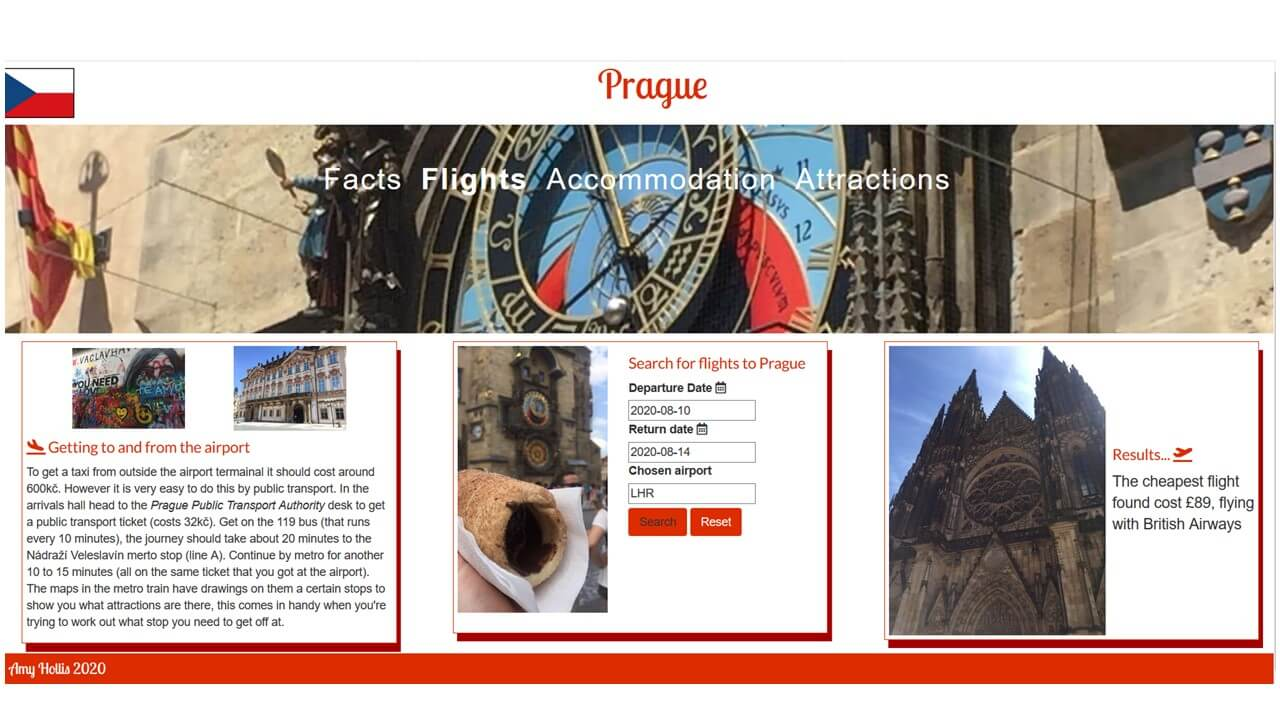
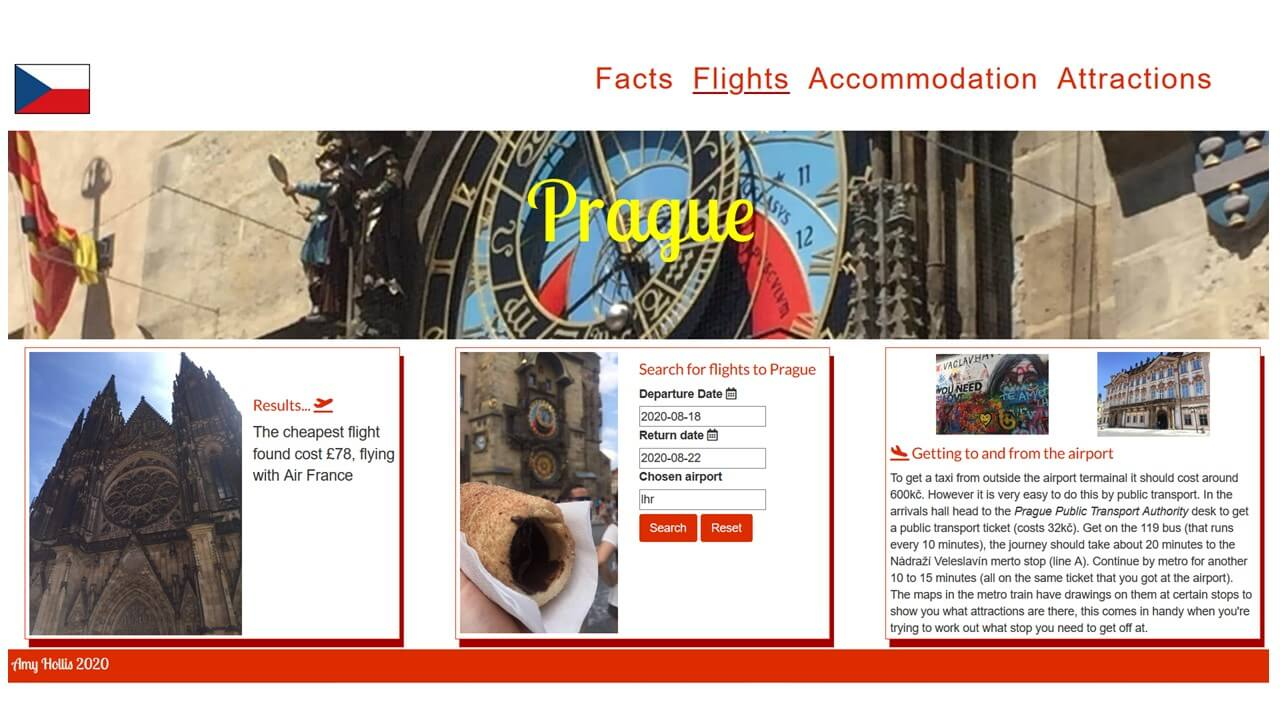
update screenshots and readme file to refelect changes to the menu/title placement

diff --git a/README.md b/README.md
@@ -19,32 +19,33 @@ This website follows the user’s thought process, they are first faced with a f
 -	As a user looking to visit Prague, I would like to be able to see the cheapest flight from a chosen UK airport
 -	As someone looking to stay in Prague, I would like to see the top few recommended Hotels and pricing for my chosen dates
 -	As a first-time visitor to Prague I would like to be able to see where the main attractions 	are.
-When designing this website, I used Balsamiq to create wireframes. This meant that that the development process was more streamlined as I knew what elements I wanted to add to the pages. I kept the header, footer and hero image (with the navigation menu in it) the same across the pages to help add continuity to the site, making it more intuitive and encourage the user to explore the site. These have all changed based on feedback given during the development process. In these original plans I was going to present the data in tables. However, these have changed to cards (created using Bootstrap), this made it easier for users to digest the bite sized bits of information and allowed for better UX as the cards could move and adapt to smaller screen sizes.  In addition, it allowed me to add more photos to the website, showing users what there is to see in Prague and add interest and colour to the pages. 
 
-On my landing page I was going to focus on average weather temperatures and general facts about the country. The original plan was to use an API to get the weather information, but as the averages were unlikely to change  and finding an appropriate API was difficult, I decided to add a currency converter, rather than hard coding in the exchange rate (which will change). 
+When designing this website, I used Balsamiq to create wireframes. This meant that that the development process was more streamlined as I knew what elements I wanted to add to the pages. I kept the header, footer and hero image the same across the pages to help add continuity to the site, making it more intuitive and encourage the user to explore the site. These have all changed based on feedback given during the development process. In these original plans I was going to present the data in tables. However, these have changed to cards (created using Bootstrap), this made it easier for users to digest the bite sized bits of information and allowed for better UX as the cards could move and adapt to smaller screen sizes.  In addition, it allowed me to add more photos to the website, showing users what there is to see in Prague and add interest and colour to the pages. 
+
+On my landing page I was going to focus on average weather temperatures and general facts about the country. The original plan was to use an API to get the weather information, but as the averages were unlikely to change  and finding an appropriate API was difficult, I decided to add a currency converter, rather than hard coding in the exchange rate (which will change). In addition I swapped the title and menu over, this was to help conform to user expectation, but also made navigation easier on smaller devices.
 
 ![wireframe for index page](assets/images/index.png)
 
-The second page that the users see is the flights page. Not only did swapping to cards, from the table improve the overall look of the website, but it also gave me more room to add additional information to the page to help users know how to get from the airport to the city centre. This was due to using the rule of thirds, thus giving me an extra section of the page to add this information. 
+The second page that the users see is the flights page. To help with consistancy I swapped the navigation and the title over to make it easier for users to navigate the site. Not only did swapping to cards, from the table improve the overall look of the website, but it also gave me more room to add additional information to the page to help users know how to get from the airport to the city centre. This was due to using the rule of thirds, thus giving me an extra section of the page to add this information. 
 
 ![wireframe for flights page](assets/images/flights.png)
 
-With the exception of swapping from the table layout to cards, the accommodation page did not change too much in terms of no extra information or APIs added to this page, this is because there was not any beneficial information that I could have added in a third section of the page. Because of this, I decided to ignore the rule of thirds for this page as adding the third section would add meaningless text and give the users an information overload, most of which would not be relevant or useful. 
+With the exception of swapping from the table layout to cards and swapping the menu and title the accommodation page did not change too much in terms of no extra information or APIs added to this page. This is because there was not any beneficial information that I could have added in a third section of the page. Because of this, I decided to ignore the rule of thirds for this page as adding the third section would add meaningless text and give the users an information overload, most of which would not be relevant or useful. 
 
 ![wireframe for hotels page](assets/images/hotels.png)
 
-The original plan for the sights page was to use TripAdvisor to show peoples’ recommendations, however it was difficult to source an API for this (as each attraction would have a unique code to TripAdvisor that it would use to search) and it didn’t fit with the user stories as it would not show where each of these sights were in relation to each other. As I have been to Prague, I knew what sights are recommended and that they are grouped into two main areas either side of the river. So, I swapped to Google maps (as there is very good documentation with the API) and this allowed me to show users where the attractions are on a map by using clusters that become markers the more the user zooms in.  
+The original plan for the sights page was to use TripAdvisor to show peoples’ recommendations, however it was difficult to source an API for this (as each attraction would have a unique code to TripAdvisor that it would use to search) and it didn’t fit with the user stories as it would not show where each of these sights were in relation to each other. As I have been to Prague, I knew what sights are recommended and that they are grouped into two main areas either side of the river. So, I swapped to Google maps (as there is very good documentation with the API) and this allowed me to show users where the attractions are on a map by using clusters that become markers the more the user zooms in. Again, for consistancy and better UX I swapped the navigation to the header and moved the title down to the hero image.   
 
 ![wireframe for sights page](assets/images/sights.png)
 
 ## Features
 ### Facts
-On the facts page of my website users are drawn to the hero image of the Astronomical clock, on this is a nav bar which used internal hyperlinks to take users to the relevant pages. I used the Bootstrap grid to accomplish the lay out of the cards used on my pages. For this to be effective across different viewports, I had to make use of the display property in CSS to show and hide pictures in order to prevent the images being too small on the smaller viewports. In addition, on a tablet size screen I added a card that is only visible on that screen size and hide two of the cards so that all the weather information is together and readable of all screen sizes. This page contains the simplest of the APIs used. This allows users to enter an amount (in GBP as it is aimed at users from the UK) and it will tell them how many Korunas are in the given number of pounds.
+In the header of each page this is a nav bar which uses internal hyperlinks to take users to the relevant pages. I used the Bootstrap grid to accomplish the layout of the cards used on my pages. For this to be effective across different viewports, on a tablet size screen I added a card that is only visible on that screen size and hide two of the cards so that all the weather information is together and readable of all screen sizes. This page contains the simplest of the APIs used. This allows users to enter an amount (in GBP as it is aimed at users from the UK) and it will tell them how many Korunas are in the given number of pounds.
 
 ![screenshot of facts page](assets/images/indexDeployed.jpg)
 
 ### Flights
-This page uses the rule of thirds in the information section of the page (under the hero image). Again, for the best UX across different screen sizes I have made use of the display properties in CSS to hide images so that you can see them more clearly. The first of these three cards just contains hard coded information in it. The middle card contains a form. The values entered in this form are fed into the URL for the API call and allows users to pick dates and outbound airport. The results from the API call and some set text then fill the last card to display the results to the user. 
+This page uses the rule of thirds in the information section of the page (under the hero image). For the best UX across different screen sizes I have made use of the display properties in CSS to hide images so that you can see them more clearly. One of these three cards just contains hard coded information in it. The middle card contains a form. The values entered in this form are fed into the URL for the API call and allows users to pick dates and outbound airport. The results from the API call and some set text then fill the first card to display the results to the user once they have closed the instructions for the date picker. 
 
 ![screenshot of flights page](assets/images/flightsDeployed.jpg)
 
@@ -60,11 +61,11 @@ This Page uses the Google maps API, with the marker clusters. I chose the cluste
 ![screenshot of sights page](assets/images/sightsDeployed.jpg)
 
 ### Existing Features
--	This website uses internal hyperlinks, both in the menu and the flag in the top left hand corner of the page(following convention as this is what users expect and improves UX) has an a tag in it that brings users back to index.html. 
+-	This website uses internal hyperlinks, both in the menu and the flag in the top left hand corner of the page (following convention as this is what users expect and improves UX) which has an a tag in it that brings users back to index.html. 
 -	The website is responsive to the viewport being used to display it. This effects how the pages are rendered. In the case of this website it then means that you see more/ different pictures depending on the screen size. The biggest change caused by this is to the facts page. I wanted to keep the two cards with the weather information together, but on a tablet size screen this wasn’t happening so I created an new card that put it into one larger card that takes the width of the screen so that the data is kept together, making it easier for users to read and interpret. 
--	I have used three forms on this website to help complete URLs for the API calls. In order to make these forms easy for users to complete labels were used alongside the “for” attribute. However, when this was rendered onto the webpage it was wrapping input boxes (of different types are used including text, number and date) so the br tag was used to ensure that this didn’t happen and it was obvious what input field was intended for what data. In addition, I used buttons with different types, submit and reset to help users restart and finish the form. 
+-	I have used three forms on this website to help complete URLs for the API calls. In order to make these forms easy for users to complete labels were used alongside the “for” attribute. However, when this was rendered onto the webpage it was wrapping input boxes (of different types are used including text and number) so the br tag was used to ensure that this didn’t happen and it was obvious what input field was intended for what data. In addition, I used buttons with different types, submit and reset to help users restart and finish the forms. 
 -	The main features of this website are the use of APIs. Apart from the Google maps API, they are all called through a generic function. This meant that to make an API call all that was needed was the URL and the headers to be passed through. I used jQuery to help simplify the JavaScript and mainly used the dollar sign and curly braces (${}) and template literals to help populate the URL with the relevant data from the forms. In addition, the currency converter, flights and hotel APIs are all on a click function, so the API call is not made until the user clicks the button. Not only does this restrict the number of API calls made but is also prevents any error messages as the call is not being made before the data is added to the field. Again, to prevent error messages the fields in the form have the “required” attribute so the call cannot be made without all the data to be fed into the URL. 
--	In order to add a bit more interactivity to the website pseudo classes were used. This is found in the menu in the hero image, it underlines and increases the size of the menu option being hovered over. Not only does it add this element of interactivity, but it also helps users see what option they are selecting.
+-	In order to add a bit more interactivity to the website pseudo classes were used. This is found in the menu, it underlines the option being hovered over. Not only does it add this element of interactivity, but it also helps users see what option they are selecting.
 ### Features left to implement 
 -	On the Google maps API I would like to add images on a “:hover” pseudo class so that when the user hovers over an attraction, an image of the attraction is displayed so that the users can get a better sense of what the city has to offer. 
 ## Technologies Used
@@ -77,15 +78,15 @@ To create this website I used HTML, CSS and JavaScript. I used a few different p
 -	I embellished the site using icons from [Fontawsome](https://fontawesome.com/). I was able to use them to decorate my pages, adding interest to the pages.
 -	I used Roboto and Lobster Two from [Google Fonts](https://fonts.google.com/) to style my project. I used one for the headings and one for the text. By only using two fonts I have added continuity to my pages.
 -	I used [Material Design](https://material.io/resources/color/#!/?view.left=0&view.right=0&primary.color=BF360C&secondary.color=1DE9B6) to help pick my colour scheme and find the hex codes for the colours that I used. Not only did it help me find the hex code for the main colour that I wanted, but it also gave the hex codes for a shade darker and lighter so that I could vary the website, while still having that consistency.
--	In order to create the best UX possible I did not want users to have to wait a long time for the browser to load large image files, so I used [Tiny PNG](https://tinypng.com/) to compress my images so browsers only had to deal with smaller file sizes, therefore load faster.
+-	In order to create the best UX possible I did not want users to have to wait a long time for the browser to load large image files, so I used [Tiny PNG](https://tinypng.com/) to compress my images so the file sizes are smaller and therefore load faster.
 -	Once I had finished coding I used this [HTML Formatter](https://webformatter.com/html) to ensure that my code was properly laid out and easier to read, this site also formats CSS and JavaScript. 
 -	I used the W3C validators to help test my code. I used the [HTML validator](https://validator.w3.org/) and the [CSS validator](https://jigsaw.w3.org/css-validator/) to ensure that both coding languages were correct.
 -	The date picker used in  the forms was created with the use of the JavaScript and CSS files from [Pikaday](https://github.com/Pikaday/Pikaday)
 ## Testing 
 
-During the development of the project I constantly looked to the problems section on GitPod to help develop the JavaScript and ensure there were no errors. I then started by testing the usability of the website, I started by testing that the internal links to the various web pages all worked and took me to the correct page. I then checked that all the API calls returned responses as expected, I then ran the HTML and CSS through the W3C validators. When I ran my code through the W3C HTML validator I got a warning about the input type of “date” as this is not supported by all browsers. In order to overcome this, I decided to add a date picker using an external JavaScript file and CSS file. I then found that the API call were not working and returned the following error message “Uncaught (in promise) SyntaxError: JSON.parse: unexpected end of data at line 1 column 1 of the JSON data”.  What I then found was I had formatted the date from the date picker separating the date with a forward slash rather than a dash as the URL required, once this was changed I was getting the expected responses from the API calls.  When I ran the code through the HTML validator again, I only had one remaining warning. On sights.html there is a warning that there is no h2-h6 tag in the main section of the webpage. However, this was done on purpose as the layout of that page did not require one and I did not want to put empty h tags in my code as it would not have done anything. 
+During the development of the project I constantly looked to the problems section on GitPod to help develop the JavaScript and ensure there were no errors. I then started by testing the usability of the website, I started by testing that the internal links to the various web pages, all worked and took me to the correct page. I then checked that all the API calls returned responses as expected, I then ran the HTML and CSS through the W3C validators. When I ran my code through the W3C HTML validator I got a warning about the input type of “date” as this is not supported by all browsers. In order to overcome this, I decided to add a date picker using an external JavaScript file and CSS file. I then found that the API call were not working and returned the following error message “Uncaught (in promise) SyntaxError: JSON.parse: unexpected end of data at line 1 column 1 of the JSON data”.  What I then found was I had formatted the date from the date picker separating the date with a forward slash rather than a dash as the URL required, once this was changed I was getting the expected responses from the API calls.  When I ran the code through the HTML validator again, this time it returned no errors, but a warning about a lack of an h2-h6 tag on sights.html, that was later resolved.
 
-After putting my code through the validators, I then went onto test the functionality of the website against the user stories.  The landing page of the website covers the first two user stories listed above, not only does it show them key facts about the city that they are planning to visit, but it also gives them an up to date currency conversion, users are able to input a number of pounds which is then converted. The input type for this is number, to prevent errors in the API call. I then went on to test the third user story, being able to search for cheap flights from a chosen airport. To do this I went to flights.html and selected my dates, chosen airport and click search, this then created the text in the results section of the page. However I did find that on smaller mobile screens there was not enough room to show the date picker and the input field, therefore you were unable to closer the date picker, to overcome this I had to change where the users could click to close the picker. I tried having it so that clicking anywhere on the document closed the picker, which worked until you wanted to open the next picker as you were still clicking on a child of the document, it opened both date pickers, and pushed the rest of the form off the bottom of the page and ruined the UX. In the end I targeted the label for the input field, by clicking on that you close the date picker you had open and would not be affected by opening the next date picker. To test the user story focusing on choosing a hotel, to test this I went to the accommodation page. This showed me that I could put in some details of my planned visit and it would give me the top three recommended hotels from TripAdvisor and tells me the price range for the hotels on the selected date, therefore fulfilling the user story by showing a range of hotels to stay in. Finally, I was able to test the l last user story and check that users were able to see the main attractions. To do this I went to the attractions page where I saw  Google maps with markers on it, when I zoomed in I was able to see the markers spread out and show me where the attractions were in relation to each other. However, the markers were just labelled with letters of the alphabet which did not really give much information about what attractions there were. In order to better fulfil this user story I changed the label names to the names of the attractions in the order the coordinates were written in the JavaScript file, to then give users a more useful overview of what is where in the city. To begin with I tried doing this by using “var labels =” then the strings separated by commas, however when I looked at this it split up the first word and gave one letter of the first word to each attraction. To overcome this I put the attraction names into an array of strings, I then went back and realised that the wrong labels were on some of the attractions, but there were full words as the labels so I went back into my code to re-order the items in the array. Due to the way the API key is set up for Google Maps you need to give the URL of the site that it will allow calls from, therefore I was unable to make changes and test them in a preview like normal, so I had to commit and push the changes each time to be able to see what it had done. Although this was not ideal, I tried adding the URL of the preview to the allowed sights for the API, but because it was not a proper URL it would not allow me to do this. 
+After putting my code through the validators, I then went onto test the functionality of the website against the user stories.  The landing page of the website covers the first two user stories listed above, not only does it show them key facts about the city that they are planning to visit, but it also gives them an up to date currency conversion, users are able to input a number of pounds which is then converted. The input type for this is number, to prevent errors in the API call. I then went on to test the third user story, being able to search for cheap flights from a chosen airport. To do this I went to flights.html and selected my dates, chosen airport and clicked search, this then created the text in the results section of the page. However I did find that on smaller mobile screens there was not enough room to show the date picker and the input field, therefore you were unable to close the date picker, to overcome this I had to change where the users could click to close the picker. I tried having it so that clicking anywhere on the document closed the picker, which worked until you wanted to open the next picker as you were still clicking on a child of the document, it opened both date pickers, and pushed the rest of the form off the bottom of the page and ruined the UX. In the end I targeted the label for the input field, by clicking on that you close the date picker you had open and would not be affected by opening the next date picker. So that users knew what I had done I made sure that I added instructions to the page, that they have to close to view the results, thus drawing their attention to this information prior to using the date picker. To test the user story focusing on choosing a hotel, to test this I went to the accommodation page. This showed me that I could put in some details of my planned visit and it would give me the top three recommended hotels from TripAdvisor and tells me the price range for the hotels on the selected date, therefore fulfilling the user story by showing a range of hotels to stay in. Finally, I was able to test the l last user story and check that users were able to see the main attractions. To do this I went to the attractions page where I saw  Google maps with markers on it, when I zoomed in I was able to see the markers spread out and show me where the attractions were in relation to each other. However, the markers were just labelled with letters of the alphabet which did not really give much information about what attractions there were. In order to better fulfil this user story I changed the label names to the names of the attractions in the order the coordinates were written in the JavaScript file, to then give users a more useful overview of what is where in the city. To begin with I tried doing this by using “var labels =” then the strings separated by commas, however when I looked at this it split up the first word and gave one letter of the first word to each attraction. To overcome this I put the attraction names into an array of strings, I then went back and realised that the wrong labels were on some of the attractions, but there were full words as the labels so I went back into my code to re-order the items in the array. Due to the way the API key is set up for Google Maps you need to give the URL of the site that it will allow calls from, therefore I was unable to make changes and test them in a preview like normal, so I had to commit and push the changes each time to be able to see what it had done. This was not ideal, I tried adding the URL of the preview to the allowed sights for the API, but because it was not a proper URL it would not allow me to do this. 
 
 After checking that the code was correct and the user stories were fulfilled, I then double checked that goals of the website were also met. The images throughout the website show users the attractions in the city, giving them a taste of what they can experience themselves when they visit Prague. The website provides a basic overview of the city with the facts page and users are given prices for flights and hotels in order to give them an idea of how much their trip will cost. And the final goal of the website is to not only show users what attractions there are in the city, but also give them an idea of where they are in relation to each other, this is achieved through the use of the Google maps API that shows the attractions marked up on the map. 
 
@@ -115,18 +116,18 @@ Further reading and troubleshooting on cloning a repository from GitHub here.
 ### Content
 -	The code for the [Google maps](https://developers.google.com/maps/documentation/javascript/tutorial) API came from the documentation that comes with the API.
 -	The currency converter API came from  [Currency Exchange](https://rapidapi.com/fyhao/api/currency-exchange) via Rapid API.
--	The information for the weather averages came from [Time and Date](https://www.timeanddate.com/weather/czech-republic/prague/climate)
--	The Flights API comes from Skyscanner via [Rapid API](https://rapidapi.com/skyscanner/api/)
+-	The information for the weather averages came from [Time and Date](https://www.timeanddate.com/weather/czech-republic/prague/climate).
+-	The Flights API comes from [Skyscanner](https://rapidapi.com/skyscanner/api/) via Rapid API.
 -	For the hotel API I went onto Rapid API and used the [TripAdvisor](https://rapidapi.com/apidojo/api/tripadvisor1) API. 
 -	Other information, mainly on index.html, but also the information on how to get to and from the airport came from the Lonely Planet Eastern Europe guidebook. 
 ### Media 
 -	The flag icon in the top right-hand corner of the pages came from [Wikimedia](https://commons.wikimedia.org/wiki/File:Flag_of_the_Czech_Republic_(bordered).svg)
-- I used [Am I responsive?](http://ami.responsivedesign.is/?url=https%3A%2F%2Famyh97.github.io%2Fms2%2F#) for the image at the top of the Readme file.
+-   I used [Am I responsive?](http://ami.responsivedesign.is/?url=https%3A%2F%2Famyh97.github.io%2Fms2%2F#) for the image at the top of the Readme file showing the website on different devices.
 -	All other images used on the website are my own photos that I put into my GitHub repository 
 
 ## Acknowledgements
-•	I was given feedback and advice from Akshat Garg.
-•	I received technical support and advise from the tutors at Code Institute. 
+- I was given feedback and advice from Akshat Garg.
+- I received technical support and advise from the tutors at Code Institute. 
 
 ## Disclaimer
 This project was created for educational purposes.
